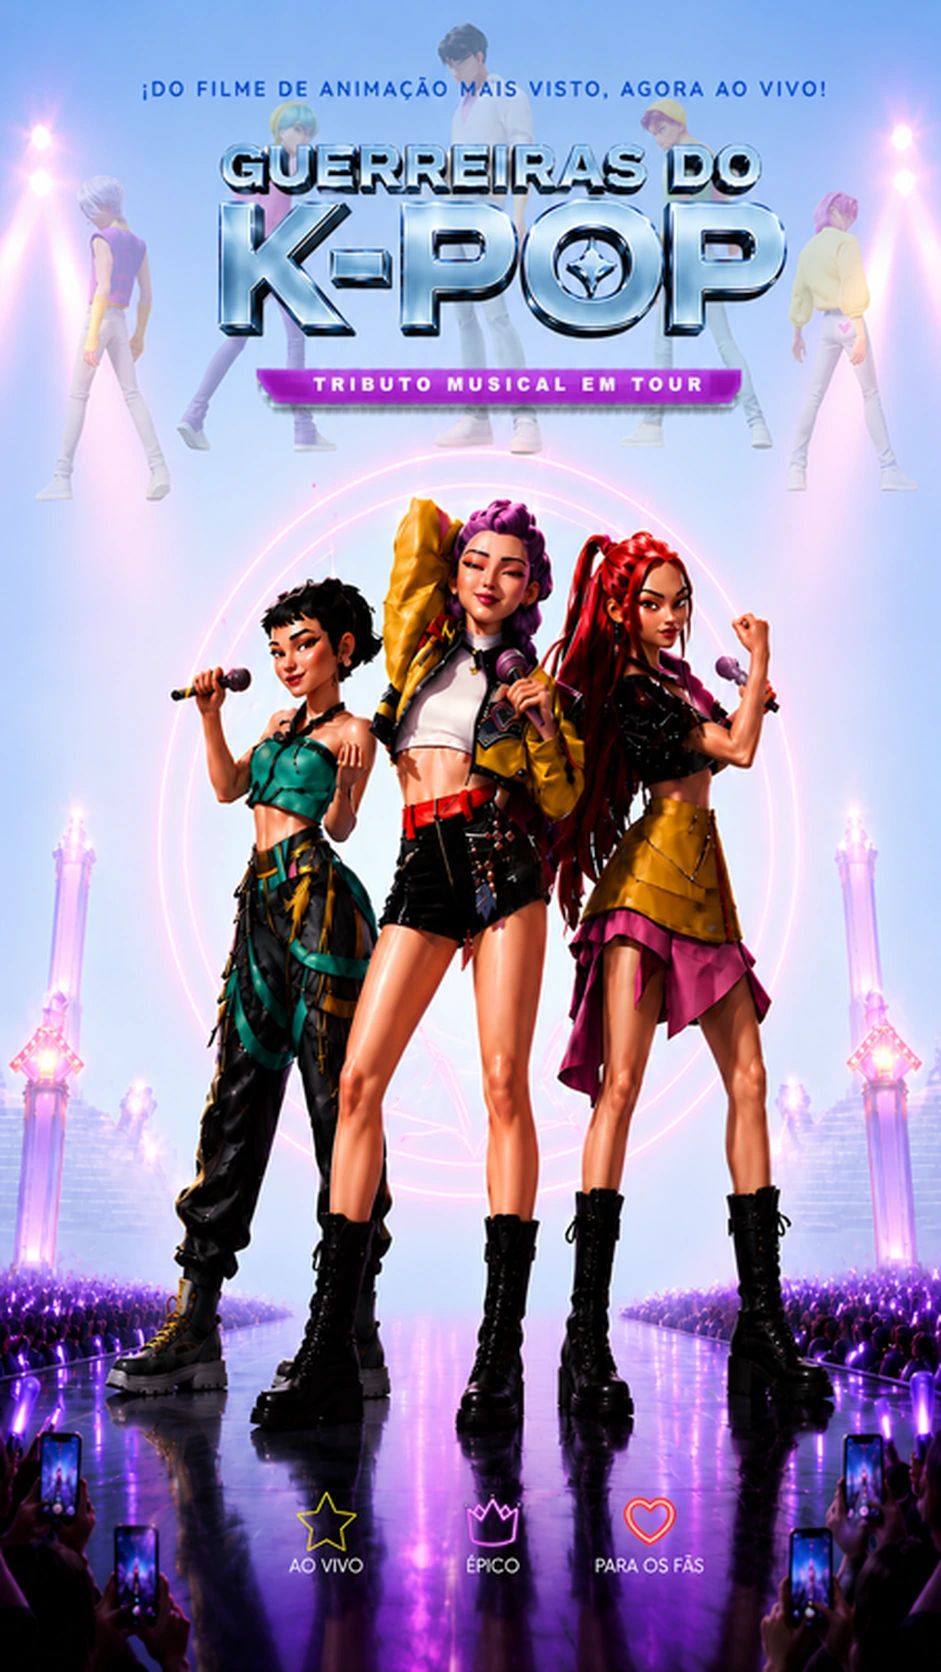
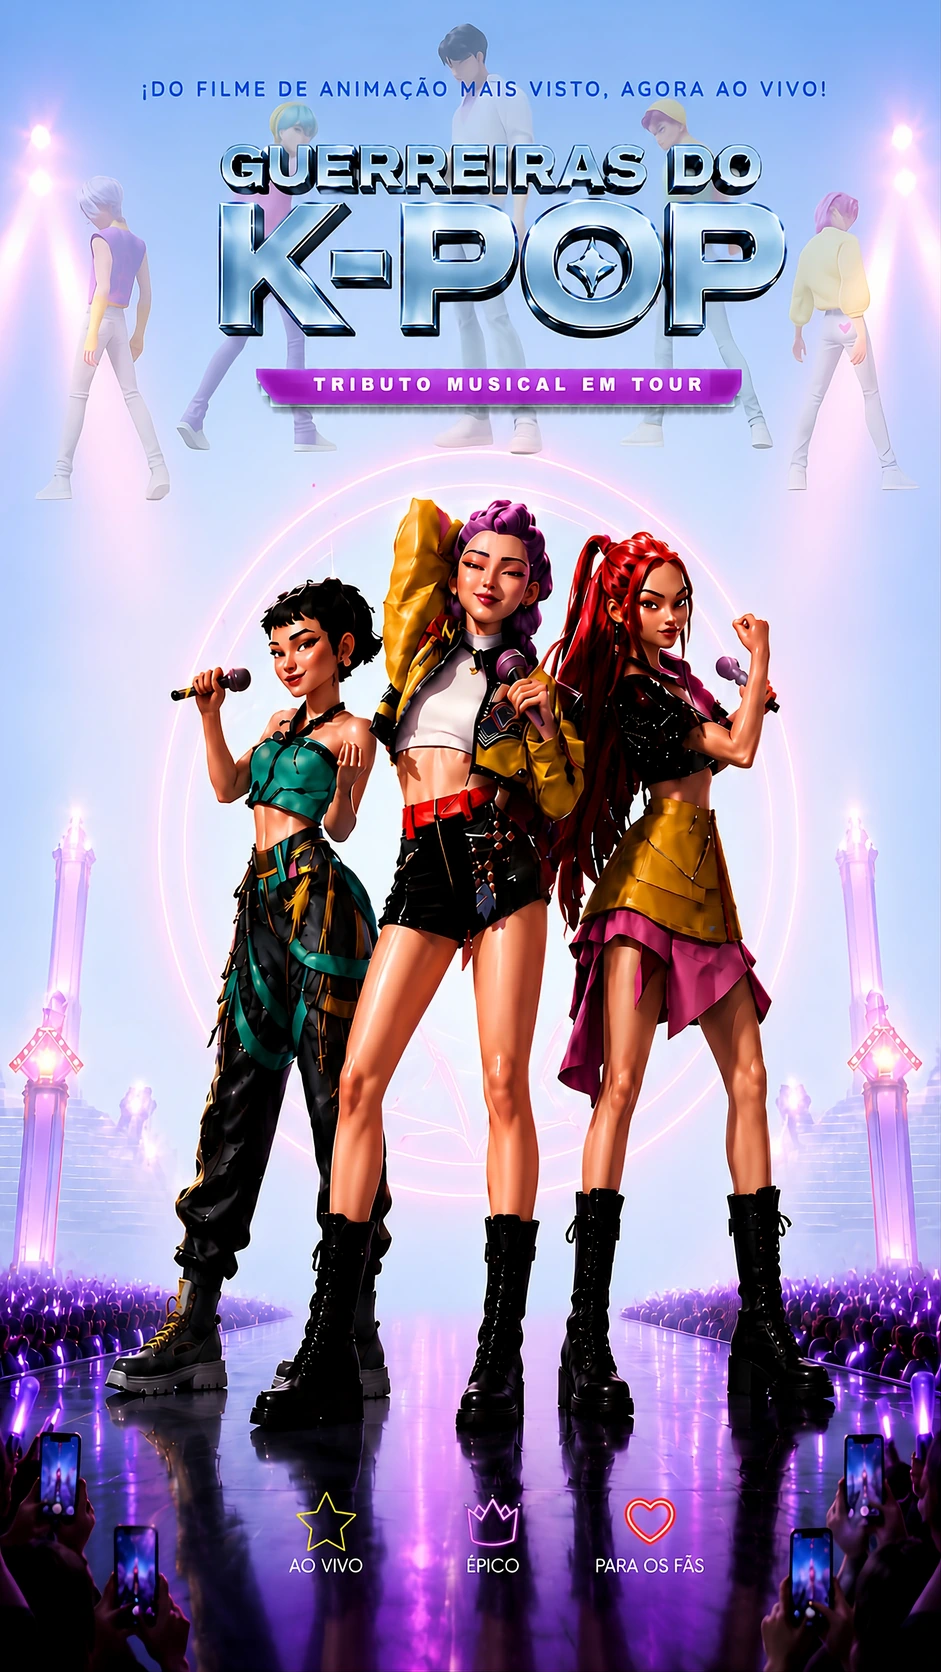
Hero mobile (modo dia): substituir por imagem em alta resolução
Substituir a imagem do hero (modo dia, smartphone) por nova versão
em alta resolução, redimensionada para 941x1672 (downscale, sem perda).

Imagem:
- Original: 3764x6684 (altíssima resolução, 29 MB)
- Redimensionada: 941x1672 (LANCZOS downscale)
- Proporção: 0.5631 -> 0.5628 (diferença 0.03% ← nenhuma distorção)
- Tamanho: 277.3 KB
- Qualidade: PERFEITA (downscale não perde qualidade)
- Bordas: #BDD3FD (azul claro)
- Cor de fundo atualizada: #BDD4FB -> #BDD3FD

Como foi um DOWNSCALE (de 3764x6684 para 941x1672), a qualidade é
perfeita — sem perda nenhuma, sem borrão, sem distorção.

Mantido:
- Modo noite (hero-bg-mobile.webp — commit anterior 0659d95)
- Desktop
- Zoom (modo dia 1.08)
- object-fit: contain

Cache-buster bumped: ?v=60 -> ?v=61.

diff --git a/src/app/page.tsx b/src/app/page.tsx
@@ -1025,23 +1025,23 @@ export default function HomePage() {
             Usa <picture> para servir imagens diferentes conforme o dispositivo:
             - Smartphone (<768px): imagens retrato (hero-bg-mobile*.webp) — novas imagens do user
             - Tablet+ (≥768px): imagens paisagem originais (hero-bg*.webp)
-            Query parameter ?v=60 para cache-busting (força reload das imagens novas). */}
+            Query parameter ?v=61 para cache-busting (força reload das imagens novas). */}
         <picture>
           {/* Smartphone (<768px) — imagens retrato ORIGINAIS do user (substituídas v7) */}
           <source
             media="(max-width: 767px)"
-            srcSet={themeMode === 'light' ? "/hero-bg-mobile-light.webp?v=60" : "/hero-bg-mobile.webp?v=60"}
+            srcSet={themeMode === 'light' ? "/hero-bg-mobile-light.webp?v=61" : "/hero-bg-mobile.webp?v=61"}
             type="image/webp"
           />
           {/* Tablet+ (≥768px) — imagens paisagem originais (hero-bg*.webp) */}
           <source
             media="(min-width: 768px)"
-            srcSet={themeMode === 'light' ? "/hero-bg-light.webp?v=60" : "/hero-bg.webp?v=60"}
+            srcSet={themeMode === 'light' ? "/hero-bg-light.webp?v=61" : "/hero-bg.webp?v=61"}
             type="image/webp"
           />
           {/* Fallback para browsers sem suporte <picture> */}
           <img
-            src={themeMode === 'light' ? "/hero-bg-light.webp?v=60" : "/hero-bg.webp?v=60"}
+            src={themeMode === 'light' ? "/hero-bg-light.webp?v=61" : "/hero-bg.webp?v=61"}
             alt=""
             className={`hero-bg-img ${heroFlash.type !== 'none' ? 'flashing' : ''}`}
             fetchPriority="high"

diff --git a/src/app/globals.css b/src/app/globals.css
@@ -1865,13 +1865,13 @@ html { scroll-behavior: smooth; }
        Assim o espaço nas laterais fica invisível (camuflado com gradient).
 
        Modo noite: gradient #0D0136 → #2B0886
-       Modo dia:   bordas ~#BDD4FB (azul-claro) */
+       Modo dia:   bordas ~#BDD3FD (azul-claro) */
     background: linear-gradient(to right, #020023 0%, #020023 50%, #020023 100%) !important;
   }
   /* Modo dia (.light-mode) — fundo do hero com a cor das bordas da imagem de dia
-     Borda esquerda: #BFD5FC, Borda direita: #C0D7FD — média #BDD4FB */
+     Borda esquerda: #BFD5FC, Borda direita: #C0D7FD — média #BDD3FD */
   .light-mode .hero-section {
-    background: #BDD4FB !important;
+    background: #BDD3FD !important;
   }
   /* ═══ IMAGEM DO HERO EM MOBILE — contain com center ═══
      object-fit: contain mostra a foto COMPLETA sem cortes.
@@ -7664,9 +7664,9 @@ img { max-width: 100%; height: auto; }
     background: linear-gradient(to right, #020023 0%, #020023 50%, #020023 100%) !important;
   }
   /* Modo dia (.light-mode) — fundo do hero com a cor das bordas da imagem de dia
-     Borda esquerda: #BFD5FC, Borda direita: #C0D7FD — média #BDD4FB */
+     Borda esquerda: #BFD5FC, Borda direita: #C0D7FD — média #BDD3FD */
   .light-mode .hero-section {
-    background: #BDD4FB !important;
+    background: #BDD3FD !important;
   }
 
   /* A imagem mobile é RETRATO (922×1706, proporção ~9:16.6).
